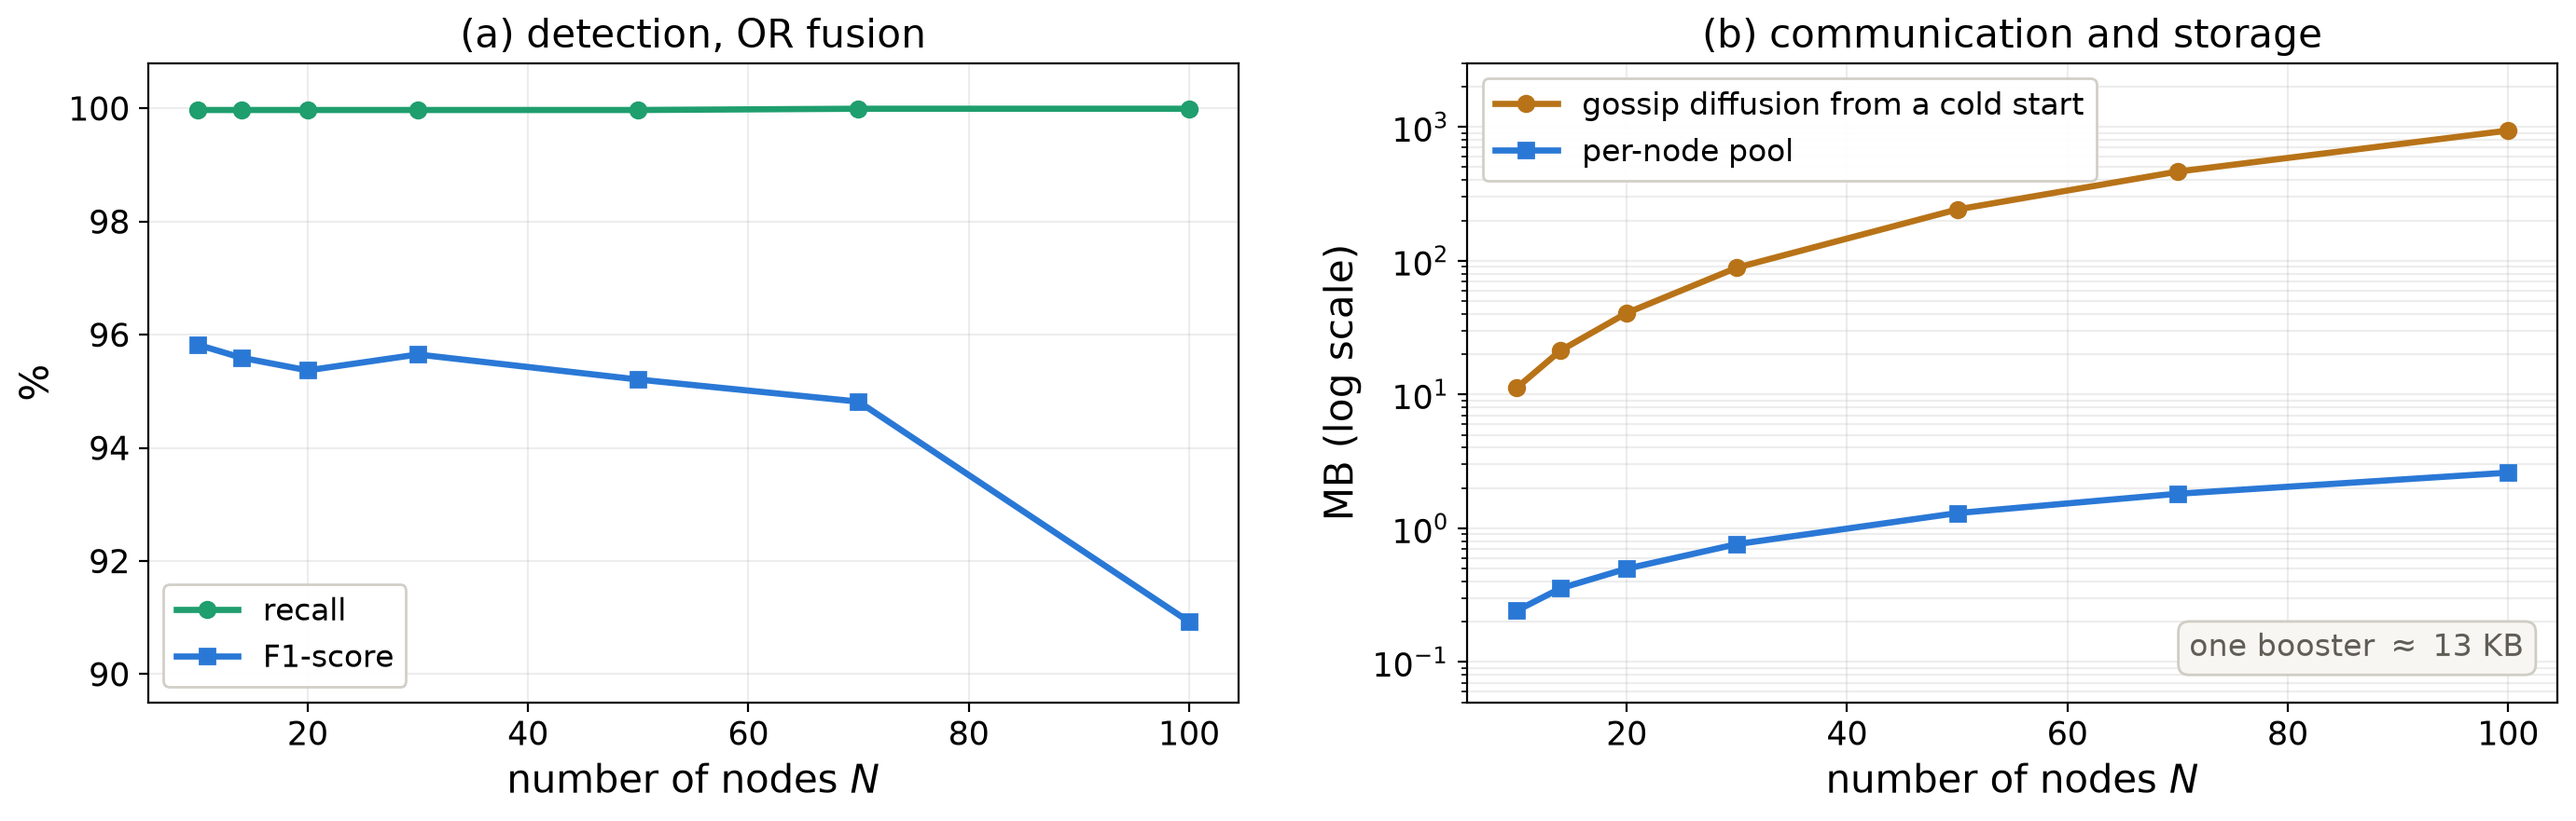
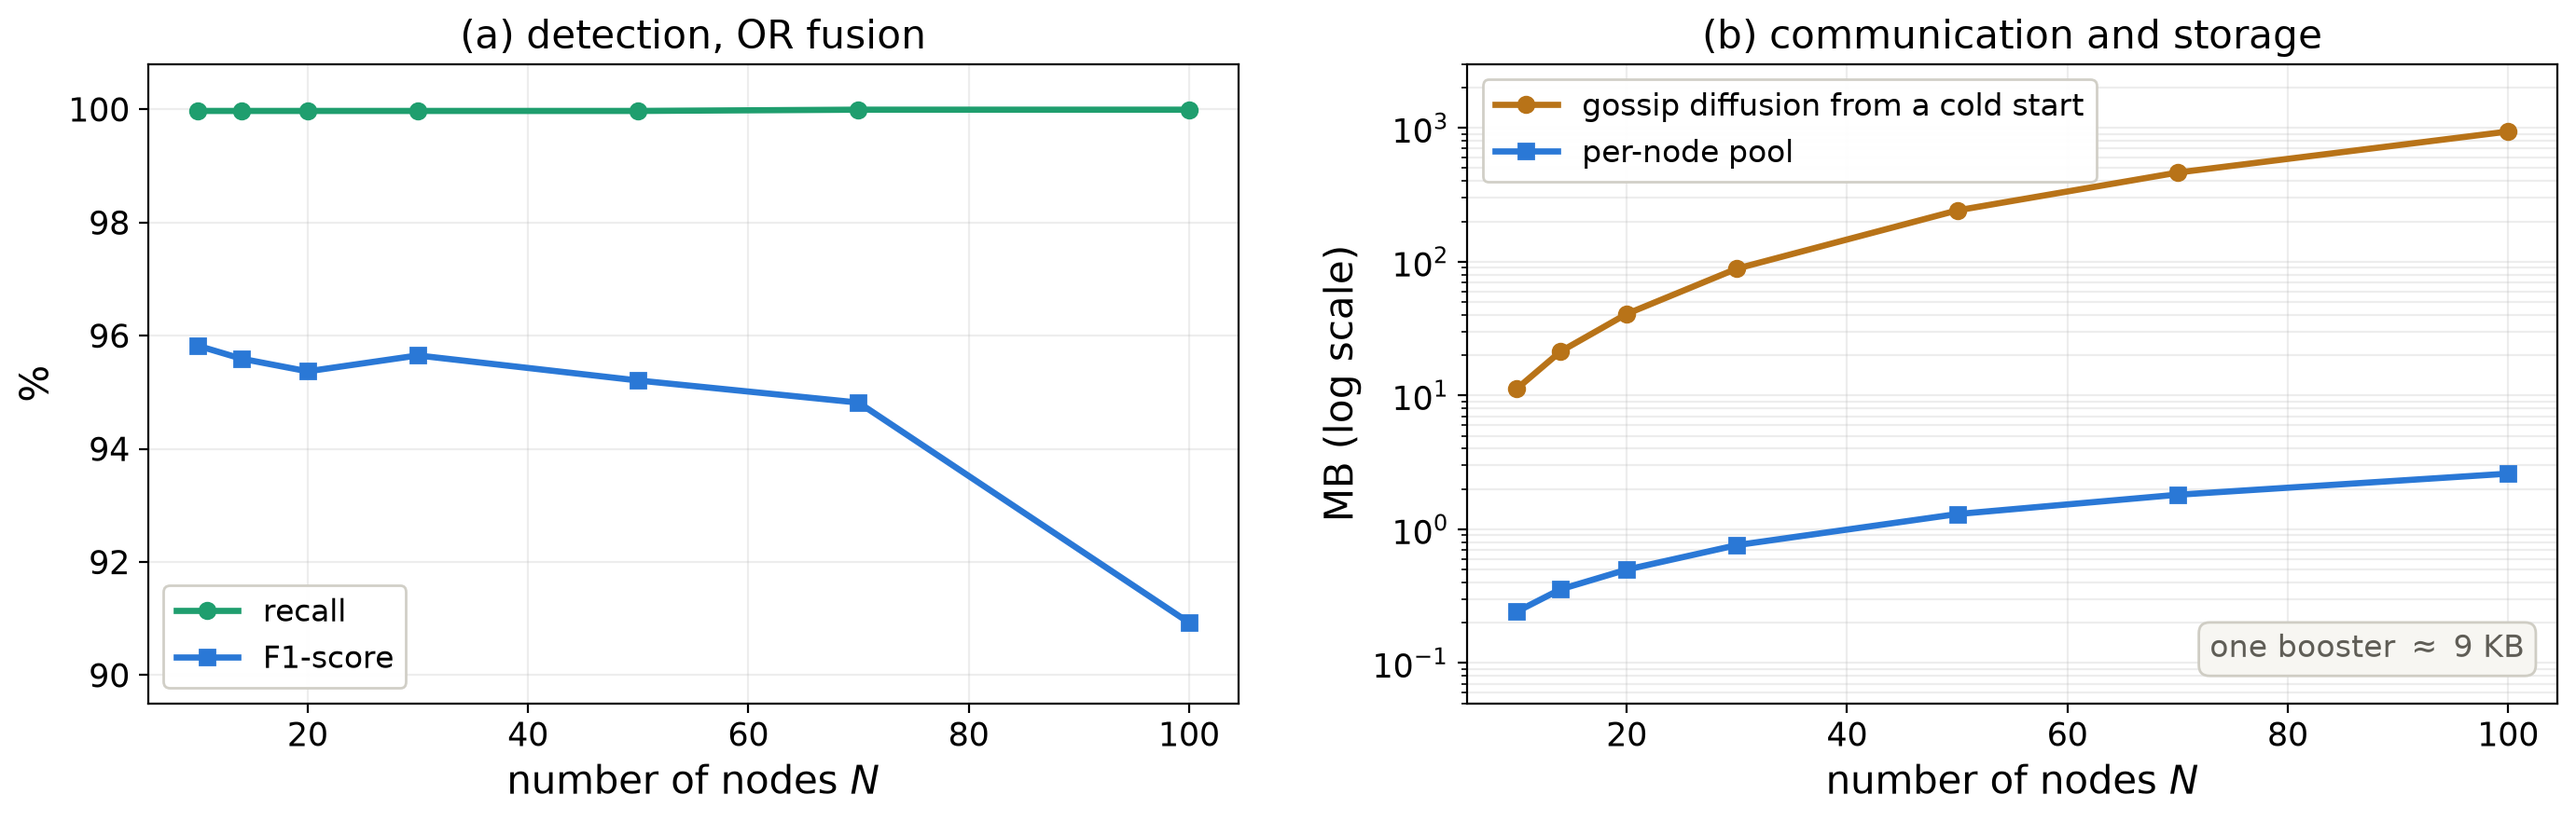
results(v1.7): tree-budget sweep, full-test node loss under k>=2, booster size
Evidence for two claims of the revised Paper 1 text that the artifact did not
yet contain, and a corrected label in the scalability figure.

- scripts/tree_budget_sensitivity.py and results/tree_budget_sensitivity.{csv,out}:
  specialists of 5/10/20 trees and a centralized model of 50/100/200 trees on the
  full test set; rerun here, identical to the v2 run.
- results/redund_k2_fulltest.csv: output of scripts/redund_k2_fulltest.py, the
  redundant detector (N=14) as nodes are lost from 14 to 3, pool retained and
  re-formed; k>=2 stays at 95.98 with the pool retained.
- scripts/plot_scaling_pair.py: the annotation gives one 10-tree booster from the
  federated pool (about 9 KB), not the cold-start pool mean (about 13 KB, inflated
  by 20-tree warm-start variants); results/scaling_pair.{pdf,png} regenerated.
- CITATION.cff 1.7.0 and CHANGELOG.

diff --git a/scripts/tree_budget_sensitivity.py b/scripts/tree_budget_sensitivity.py
@@ -1,0 +1,97 @@
+#!/usr/bin/env python3
+"""Justifica num_boost_round=10: sensibilidade ao orcamento de arvores.
+
+Distribuido (specialist N=10, GRASP-24): num_boost_round em {5,10,20} -> OR(k>=1)
+e k>=2 no teste cheio. Centralizado (1 XGBoost sobre o pool benign-capped): arvores
+em {50,100,200}. Mostra (i) o alinhamento 10 boosters x 10 arvores = 100 = centralizado
+100, e (ii) que a deteccao distribuida e estavel no nº de arvores (10 nao e cherry-pick).
+Carrega train+test UMA vez. Saida: results/tree_budget_sensitivity.csv
+Rodar: ~/venv-ereno314/bin/python scripts/tree_budget_sensitivity.py
+"""
+import os
+import sys
+
+sys.path.insert(0, os.path.dirname(os.path.dirname(os.path.abspath(__file__))))
+import numpy as np
+import xgboost as xgb
+from sklearn.model_selection import train_test_split
+import python.util as util
+from fd.dataset import _attack_per_client
+
+DATASET, TESTFILE = "all_in_one_ereno_train", "all_in_one_ereno_test"
+FEATURES = [2, 4, 5, 14, 15, 17, 19, 20, 21, 23, 25, 27, 35, 40, 41, 42, 44, 45, 46, 50, 54, 55, 57, 58]
+SEED, CAP, N = 42, 500000, 10
+DIST_NBR = [5, 10, 20]
+CENT_TREES = [50, 100, 200]
+
+
+def metrics(pred, is_atk, is_ben, n_atk, n_ben):
+    tp = int((pred & is_atk).sum()); fp = int((pred & is_ben).sum())
+    rec = 100 * tp / max(n_atk, 1); prec = 100 * tp / max(tp + fp, 1)
+    fpr = 100 * fp / max(n_ben, 1); f1 = 2 * prec * rec / max(prec + rec, 1e-9)
+    return f1, rec, fpr, fp
+
+
+def main():
+    cols = [i - 1 for i in sorted(FEATURES)]
+    print("[tb] load train...", flush=True)
+    X_all, y_all, _ = util.load_arff(f"{DATASET}.csv"); nc = util.normal_class
+    Xf_full = X_all[:, cols]; del X_all
+    print("[tb] load test...", flush=True)
+    Xte_raw, yte_m, _ = util.load_arff(f"{TESTFILE}.csv"); util.normal_class = nc
+    dte = xgb.DMatrix(Xte_raw[:, cols]); del Xte_raw
+    is_atk = (yte_m != nc); is_ben = ~is_atk
+    n_atk, n_ben = int(is_atk.sum()), int(is_ben.sum())
+
+    # pool benign-capped (uma vez): drop normal alem do CAP
+    rng = np.random.default_rng(SEED)
+    normal_idx = np.where(y_all == nc)[0]
+    drop = rng.permutation(normal_idx)[CAP:]
+    keep = np.ones(len(y_all), dtype=bool); keep[drop] = False
+    Xf, y = Xf_full[keep], y_all[keep]
+    splits = _attack_per_client(Xf, y, N, rng)  # same rng as the drop (matches deployed)
+
+    rows = []
+    print("\n===== DISTRIBUTED (specialist N=10) — num_boost_round sweep =====", flush=True)
+    for nbr in DIST_NBR:
+        pool = []
+        for idx in splits:
+            Xc, yc = Xf[idx], y[idx]
+            Xct, _, yct, _ = train_test_split(Xc, yc, test_size=0.2, random_state=SEED)
+            yy = (yct != nc).astype(int)
+            p, q = int(yy.sum()), int((yy == 0).sum())
+            pr = {"max_depth": 4, "eta": 0.1, "objective": "binary:logistic",
+                  "seed": SEED, "nthread": 12}
+            if p and q: pr["scale_pos_weight"] = q / p
+            pool.append(xgb.train(pr, xgb.DMatrix(Xct, label=yy), num_boost_round=nbr,
+                                  verbose_eval=False))
+        votes = np.column_stack([(b.predict(dte) >= 0.5).astype(np.int16) for b in pool]).sum(1)
+        for k in (1, 2):
+            f1, rec, fpr, fp = metrics(votes >= k, is_atk, is_ben, n_atk, n_ben)
+            rows.append(("distributed", f"nbr={nbr},k>={k}", nbr * N, f1, rec, fpr, fp))
+            print(f"  nbr={nbr:>2} (total {nbr*N} trees)  k>={k}:  F1={f1:6.2f} recall={rec:6.2f} "
+                  f"FPR={fpr:6.3f} #FP={fp:,}", flush=True)
+
+    print("\n===== CENTRALIZED (single XGBoost over the pool) — trees sweep =====", flush=True)
+    yb = (y != nc).astype(int)
+    p, q = int(yb.sum()), int((yb == 0).sum())
+    dpool = xgb.DMatrix(Xf, label=yb)
+    for nt in CENT_TREES:
+        pr = {"max_depth": 4, "eta": 0.1, "objective": "binary:logistic",
+              "seed": SEED, "nthread": 12}
+        if p and q: pr["scale_pos_weight"] = q / p
+        bst = xgb.train(pr, dpool, num_boost_round=nt, verbose_eval=False)
+        f1, rec, fpr, fp = metrics(bst.predict(dte) >= 0.5, is_atk, is_ben, n_atk, n_ben)
+        rows.append(("centralized", f"trees={nt}", nt, f1, rec, fpr, fp))
+        print(f"  trees={nt:>3}:  F1={f1:6.2f} recall={rec:6.2f} FPR={fpr:6.3f} #FP={fp:,}", flush=True)
+
+    os.makedirs("results", exist_ok=True)
+    with open("results/tree_budget_sensitivity.csv", "w") as fh:
+        fh.write("arch,config,total_trees,F1,recall,FPR,FP\n")
+        for a, c, t, f1, rec, fpr, fp in rows:
+            fh.write(f'{a},"{c}",{t},{f1:.4f},{rec:.4f},{fpr:.4f},{fp}\n')
+    print("\n[tb] CSV -> results/tree_budget_sensitivity.csv", flush=True)
+
+
+if __name__ == "__main__":
+    main()

diff --git a/scripts/plot_scaling_pair.py b/scripts/plot_scaling_pair.py
@@ -49,7 +49,11 @@ def main():
     a.set_title("(a) detection, OR fusion", fontsize=15)
 
     cold = [v / 1e6 for v in col("GL_comm_bytes")]
-    a_kb = sum(col("avg_booster_KB")) / len(d)
+    # one 10-tree booster, from the federated pool (N boosters); avg_booster_KB averages the
+    # cold-start gossip pool, whose 20-tree warm-start variants inflate it to about 13 KB
+    per_b = [fb / nb / 1e3 for fb, nb in zip(col("FL_bytes"), col("FL_b"))]
+    a_kb = sum(per_b) / len(per_b)
+    print("10-tree booster KB per N:", [round(v, 2) for v in per_b])
     b.plot(N, cold, "-o", color="#b87318", lw=2.4, ms=6, label="gossip diffusion from a cold start")
     b.plot(N, [v / 1e6 for v in col("GL_bytes")], "-s", color="#2a78d6", lw=2.4, ms=6,
            label="per-node pool")

diff --git a/CHANGELOG.md b/CHANGELOG.md
@@ -8,6 +8,30 @@ This is the **v1.x (Paper 1 / JPDC) maintenance lineage**, kept separate from th
 v2 adaptive line. See the [`v2.0.0`](https://github.com/CassioBatista/ereno-Adaptativo/releases/tag/v2.0.0)
 release for the autonomous, decentralized FL↔GL switch and the external monitor.
 
+## [v1.7] — 2026-10-29
+
+Fifth artifact of the **Paper 1 (JPDC) revision**: the evidence behind two claims of the
+revised text that the artifact did not yet contain, and a corrected figure label. Headline
+results are unchanged.
+
+### Added
+- **`scripts/tree_budget_sensitivity.py`** — the tree-budget sweep of Section 3
+  (`results/tree_budget_sensitivity.{csv,out}`): specialists of 5, 10 and 20 trees
+  (N = 10, OR and k ≥ 2) and a centralized model of 50, 100 and 200 trees, on the full
+  test set. Five trees per specialist give the same detector as ten (F1-score 95.72,
+  17,881 false positives under OR); twenty add 0.62 points under OR; the centralized model
+  gives 90.94 / 99.23 / 99.90.
+- **`results/redund_k2_fulltest.csv`** — output of the existing
+  `scripts/redund_k2_fulltest.py`: the redundant detector (N = 14, two specialists per
+  attack) on the full test set as nodes are lost from 14 to 3, with the pool retained and
+  re-formed, for OR and k ≥ 2 (Section 4.3: k ≥ 2 stays at 95.98 with the pool retained).
+
+### Fixed
+- **Booster size in the scalability figure** (`scripts/plot_scaling_pair.py`,
+  `results/scaling_pair.{pdf,png}`): the annotation now gives the size of one 10-tree
+  booster, taken from the federated pool (about 9 KB). It previously averaged the
+  cold-start gossip pool, whose 20-tree warm-start variants raise the mean to about 13 KB.
+
 ## [v1.6] — 2026-10-19
 
 Fourth artifact of the **Paper 1 (JPDC) revision**: the figures of the condensed Sections
